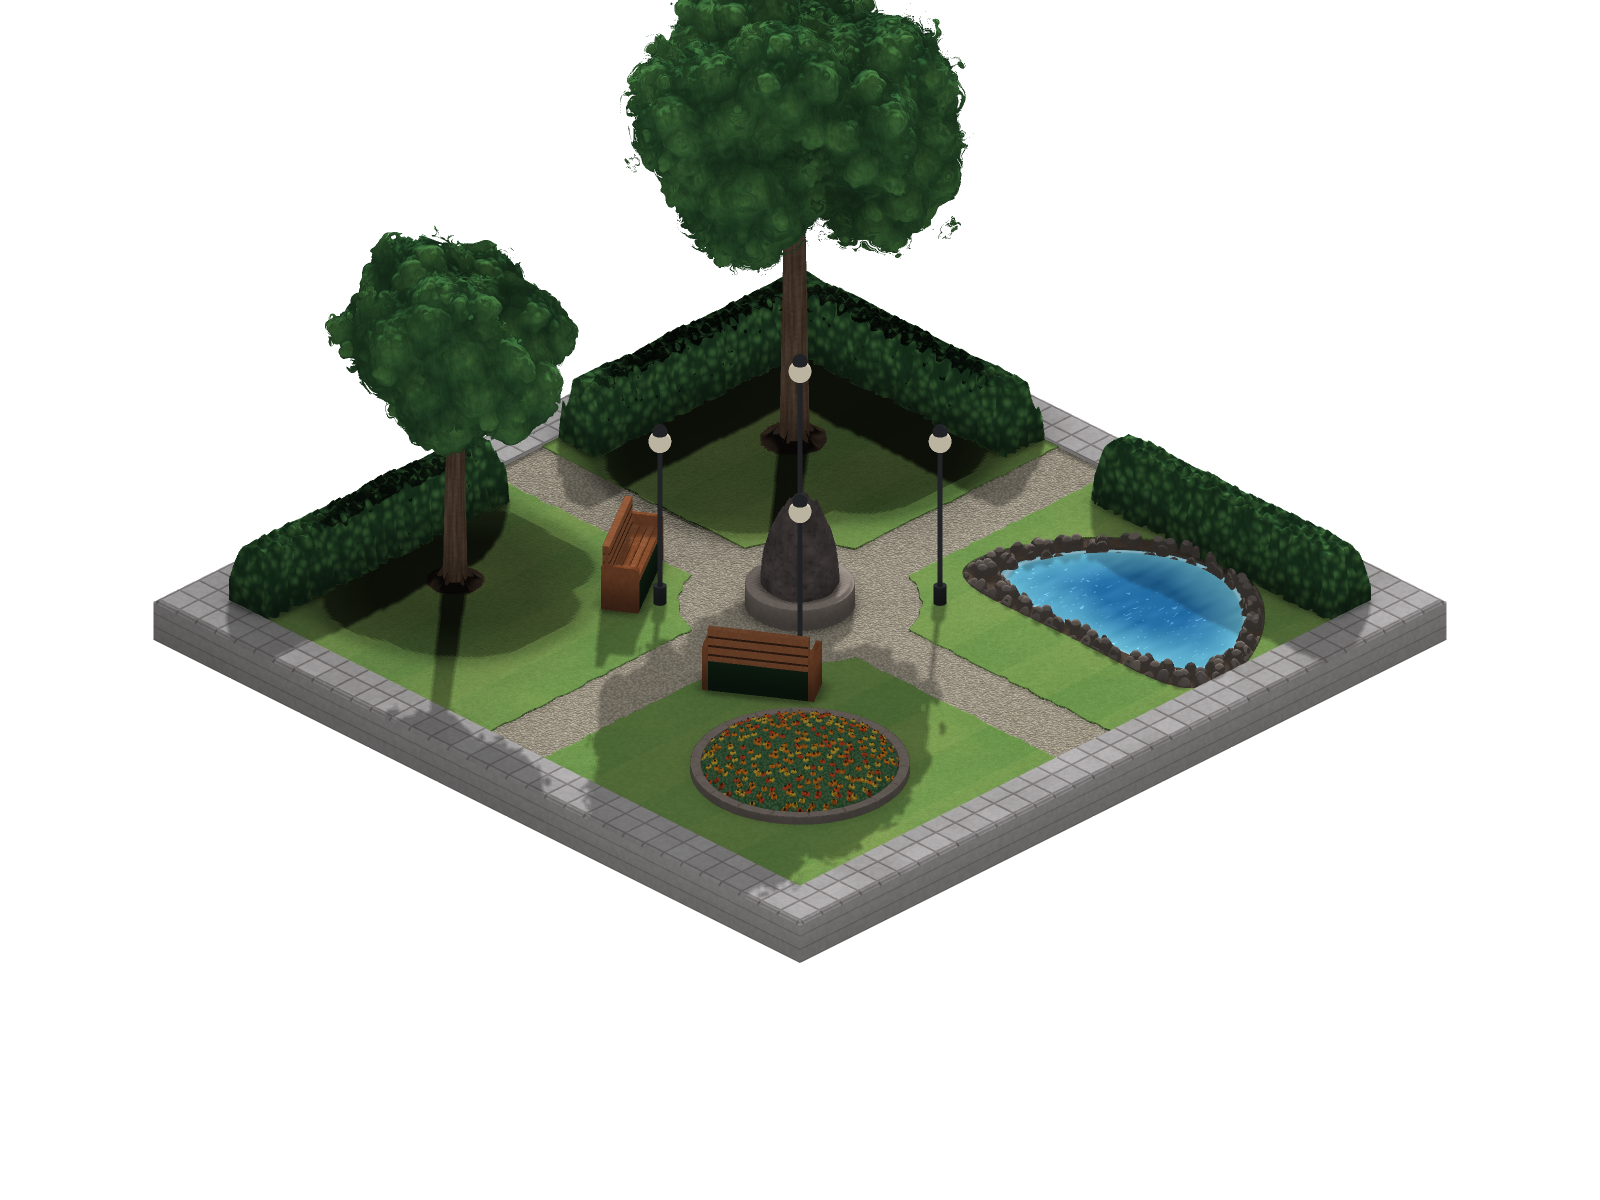
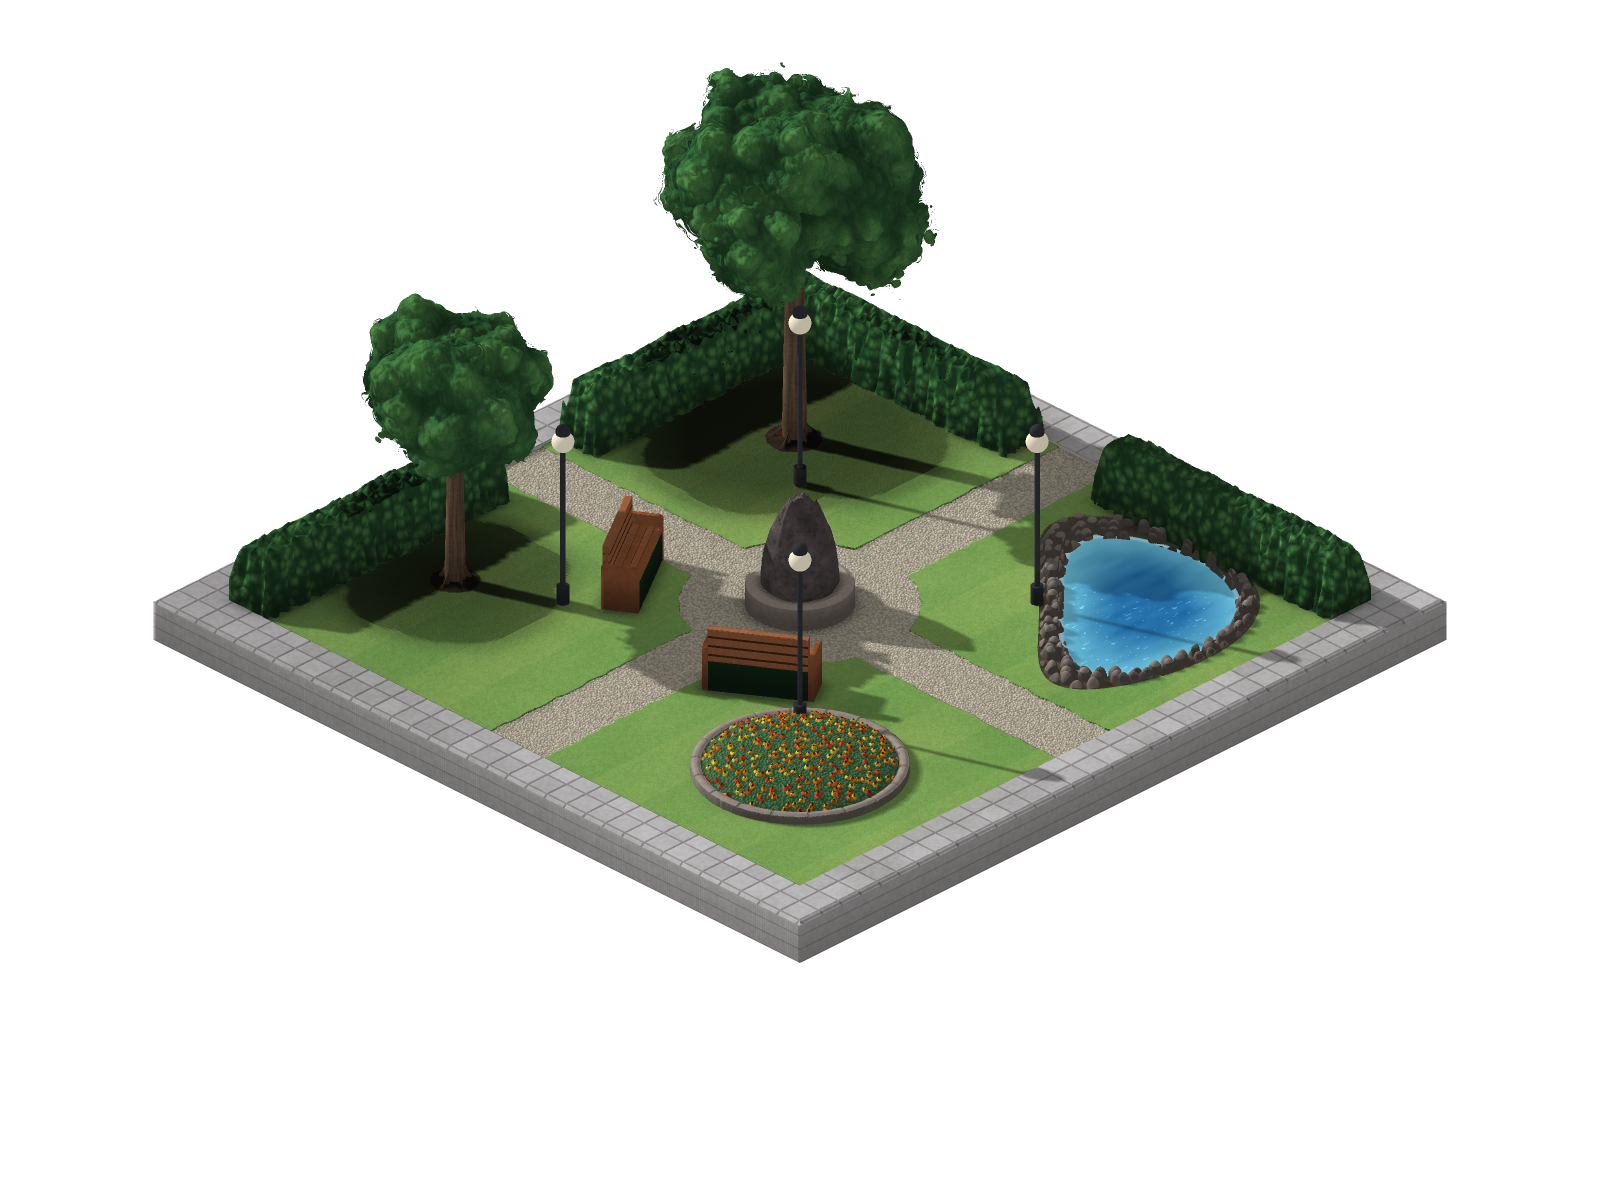
chore(art): spike (a) repainted under the WSW sun and spec v3; pond turned so the NE lamp stands in its hollow

Changed region(s): [[0.0938, 0.0, 0.9062, 0.8017], [0.1875, 0.4008, 0.25, 0.4317], [0.1562, 0.4317, 0.1875, 0.4625]]

diff --git a/design/art/colony/spike-park/procedural/park.ts b/design/art/colony/spike-park/procedural/park.ts
@@ -1,7 +1,7 @@
 /**
  * Option (a) of the visual spike: the Park painted the world map's way (packages/ui/src/terrain/landscape.ts).
  * No image assets. Every point of the 12 m place is a height plus a material from the map's own noise, coloured
- * from the map's palette and lit from the north-west with its ambient + diffuse. The map is seen from straight
+ * from the map's palette and lit with its ambient + diffuse, the sun from the grounds' west-south-west. The map is seen from straight
  * above, so it never needed depth; here the same height field is splatted as columns into the grounds' iso
  * camera with a z-buffer, and a second splat from the sun gives cast shadows. Tree crowns and lamp globes float,
  * which one height field cannot hold, so they are lumpy spheres (Worley crowns, as the map's forest) beside it;
@@ -82,13 +82,13 @@ const PATH_HALF = 0.5;
 const PLAZA_R = 1.6;
 const POND = { x: 3.1, y: 3.1, rx: 1.9, ry: 1.4 };
 const BED = { x: 3.1, y: -3.1, r: 1.3 };
-const LAMPS: [number, number][] = [[1.3, 1.3], [-1.3, 1.3], [1.3, -1.3], [-1.3, -1.3]];
+const LAMPS: [number, number][] = [[2.2, 2.2], [-2.2, 2.2], [2.2, -2.2], [-2.2, -2.2]];
 const LAMP_Z = 2.4;
 const BENCHES: [number, number][] = [[-1.9, -1.2], [1.2, -1.9]];
 const BENCH_HALF = 0.75;
 const TREES = [
-  { x: -3.1, y: 3.0, h: 7.0, seed: 11 },
-  { x: -3.6, y: -2.8, h: 5.2, seed: 23 },
+  { x: -3.1, y: 3.0, h: 5.5, seed: 11 },
+  { x: -3.6, y: -2.8, h: 4.2, seed: 23 },
 ];
 /** Hedge boxes [x0, x1, y0, y1]: inside the rim on the north and west, open where the paths run out. */
 const HEDGE_W = 0.7;
@@ -234,9 +234,11 @@ function benchLocal(x: number, y: number, b: [number, number]): [number, number]
 }
 
 function pondQ(x: number, y: number): number {
-  const t = (x - POND.x) / POND.rx;
-  // Bent ends make the kidney: its hollow faces the plaza.
-  const dy = y - POND.y + POND.ry * 0.42 * (t * t - 0.35);
+  // Laid along the diagonal with its ends bent towards the plaza: the kidney's hollow holds the lamp at (2.2, 2.2),
+  // which the spec's plain ellipse would put in the water.
+  const u = (x - POND.x - (y - POND.y)) * Math.SQRT1_2, v = (x - POND.x + (y - POND.y)) * Math.SQRT1_2;
+  const t = u / POND.rx;
+  const dy = v + POND.ry * 0.42 * (t * t - 0.35);
   return Math.hypot(t, dy / (POND.ry * 0.86));
 }
 
@@ -618,8 +620,10 @@ function splatClumps(c: Cam, B: Buffers, nGround: number): void {
 // ---------------------------------------------------------------- shading
 
 const SUN: [number, number, number] = (() => {
-  // The map's light, [-0.62, -0.7, 0.55] with its y running south; ours runs north.
-  const v = [-0.62, 0.7, 0.55];
+  // The grounds' sun (park-spec.json): azimuth 250° from north, 35° up — the camera's left, so the faces we see are
+  // lit. The map's north-west sun would leave every face this camera sees in shade.
+  const az = (250 * Math.PI) / 180, el = (35 * Math.PI) / 180;
+  const v = [Math.sin(az) * Math.cos(el), Math.cos(az) * Math.cos(el), Math.sin(el)];
   const l = Math.hypot(v[0]!, v[1]!, v[2]!);
   return [v[0]! / l, v[1]! / l, v[2]! / l];
 })();
@@ -881,9 +885,18 @@ export function paintPark(theme: Theme, ss = 2): Painted {
           const vx = lx - px, vy = ly - py, vz = lampsZ - pz;
           const dl = Math.hypot(vx, vy, vz);
           if (dl < 0.2) continue;
+          // Hedges, benches and the plinth stand in a lamp's way: a few steps along the ray over the height field.
+          let seen = 1;
+          for (let q = 1; q < 10 && seen; q++) {
+            const f = q / 10, qx = px + vx * f, qy = py + vy * f;
+            const gi = Math.floor((qx + HALF) / G.g), gj = Math.floor((qy + HALF) / G.g);
+            if (gi >= 0 && gj >= 0 && gi < N && gj < N && G.h[gj * N + gi]! > pz + vz * f + 0.02 && G.m[gj * N + gi] !== POST) seen = 0;
+          }
+          if (!seen) continue;
           const nd = clamp01((vx * nx + vy * ny + vz * nz) / dl);
           const fall = 1 / (1 + (dl / 2.2) ** 2) ** 2;
-          const k = 1.5 * fall * (0.15 + 0.85 * nd);
+          // Leaves right beside a globe would flare: they scatter the light, so they take less of it.
+          const k = 1.5 * fall * (0.15 + 0.85 * nd) * (mat === -1 ? 0.45 : 1);
           // Lamplight shows the day colour back, so undo the night palette for it.
           r += (ar / 0.34) * 1.0 * k;
           g += (ag2 / 0.4) * 0.74 * k;

diff --git a/design/art/colony/spike-park/procedural/NOTES.md b/design/art/colony/spike-park/procedural/NOTES.md
@@ -14,8 +14,10 @@ What is taken from the map (`packages/ui/src/terrain/landscape.ts`, `noise.ts`),
 - **The palette.** LIGHT is copied value for value (it is not exported); DARK is the map's own transform
   (`r×0.34, g×0.4, b×0.48+0.03`, the same water/foam overrides, ambient 0.42 / diffuse 0.62, cyan contour).
   The park adds a few colours the map never needed (bark, painted wood, lamp metal, gazania petals), kept muted.
-- **The light.** The map's vector `[-0.62, -0.7, 0.55]` (sun from the north-west, ~30° up) and its
-  `ambient + diffuse × lambert` model; the map's clouds by day, its contour lines (every 25 cm here) at night.
+- **The light model.** The map's `ambient + diffuse × lambert`, its clouds by day, its contour lines (every 25 cm
+  here) at night. **Not its direction:** the map's sun is north-west, which from this south-east camera lights
+  only faces we cannot see. Since the second pass (spec v3, 6 Nov) the sun is the grounds' own: azimuth 250°
+  (west-south-west, the camera's left), 35° up, so the near-left faces are lit and shadows fall back-right.
 - **The materials' recipes.** Lawn = the map's plains patchwork + mown stripes; tree crowns and hedges = the map's
   forest formula `crown = 1 − smooth(0.05, 0.62, cells(…))`, forest→canopy colour by crown; the meteorite =
   `ridged` crests + Worley pits + the crater's purple glints; the pond = the map's shallow/deep mix, ripple,
@@ -38,8 +40,8 @@ What had to be added, because the map is only ever seen from straight above:
 5. **Cast shadows.** A second splat of everything from the sun (1.4 cm texels), 3×3 soft taps. The map has no cast
    shadows; without them nothing here stands up.
 6. **Ambient occlusion** from a blurred top-down "what stands over me" map (land + crown undersides).
-7. **Dusk extras.** Warm light pools from the four globes (re-lighting the day colours), a halo round each
-   globe, the slab's top edge drawn as a hologram line (as the map rings the store's pad), contours on the
+7. **Dusk extras.** Warm light pools from the four globes (re-lighting the day colours, stopped by hedges, benches
+   and the plinth with a short march over the height field), a halo round each globe, the slab's top edge drawn as a hologram line (as the map rings the store's pad), contours on the
    slab's sides, plinth and meteorite.
 
 ## Paint time (Apple M5 Max, one thread, Node 24)
@@ -50,8 +52,9 @@ What had to be added, because the map is only ever seen from straight above:
 | 1600×1200, ss 1 (no supersampling; nearly as good) | **≈ 1.7 s** | 2.7 s |
 
 Split at ss 2 (warm): grid 1.0–1.1 s · splat 1.1 s · shadow map 0.35 s · AO 0.1 s · shading 1.2 s.
-Some runs were slower (up to 8.9 s) while other spikes were rendering on the same machine; the figures above are the
-quiet runs. With the map's own estimate of a phone 4–6× slower: **7–10 s per image at ss 1, 15–25 s at ss 2**.
+Some runs were slower (up to 11 s) while other spikes were rendering on the same machine; the figures above are the
+quiet runs. The second pass (spec v3: WSW sun, 5.5 m and 4.2 m trees, lamps at ±2.2, lamp light occluded) costs
+about the same; the occlusion march adds a few hundred ms at dusk. With the map's own estimate of a phone 4–6× slower: **7–10 s per image at ss 1, 15–25 s at ss 2**.
 Cost scales with pixels, so a grounds tile drawn ~400 px wide at 2× density would be ≈ 0.4–0.6 s here, 2–3 s on a
 phone — fine for a picture painted once in a worker and cached (as `landscape-painter.ts` does), not for anything
 that animates.
@@ -73,16 +76,14 @@ that animates.
   noisy spheres, no visible branches, no light through the canopy (a little faked transmission keeps them from
   going black). Benches are solid boxes with the gap under the seat *painted* on; they read as benches at this size
   but not up close. Lamp posts are fine because they are just thin columns.
-- **The sun from the north-west lights the side the camera does not see.** The camera looks from the south-east, so
-  every wall, hedge face and crown facing us is in the shade side; the picture leans on ambient. (Note for the
-  comparison: `park.py` sets its sun to rotation (50°, 0, 35°), which shines *from the south-east*, so the Blender
-  render is front-lit despite the spec's "sun from the north-west" — the two images are not lit alike.)
-- No reflections worth the name: from this camera the pond cannot see any of the lamps (they are all south-west of
-  it, the reflected view looks north-west), so "the pond reflects them" does not happen; it only darkens and
+- **Light direction had to leave the map's.** The first pass used the map's north-west sun and every face the camera
+  sees was in shade; the second pass uses the grounds' west-south-west sun, which reads far better. So "like the
+  map" means the map's palette and light *model*, with a sun chosen for this camera.
+- No reflections worth the name: from this camera the pond cannot see any of the lamps, so it only darkens and
   ripples. Water is coloured, as on the map, not reflective.
 - Silhouettes are aliased unless supersampled (ss 2 doubles to quadruples the time).
-- The 7 m tree's crown pokes ~25 px above the top of the 1600×1200 frame. That is the spec's camera (ortho 21 m);
-  the Blender render would clip it too.
+- Spec v3 puts the lamp at (2.2, 2.2) inside the pond's ellipse. Here the kidney is laid along the diagonal with its
+  hollow towards the plaza, and the lamp stands in the hollow; the pond's size is the spec's.
 - Every new kind of object is new code and new artefacts to chase (the column splat left holes in walls on
   staircase edges until the eight-neighbour fix; one-cell normals striped every curved wall). It is a renderer you
   own, not a tool.
